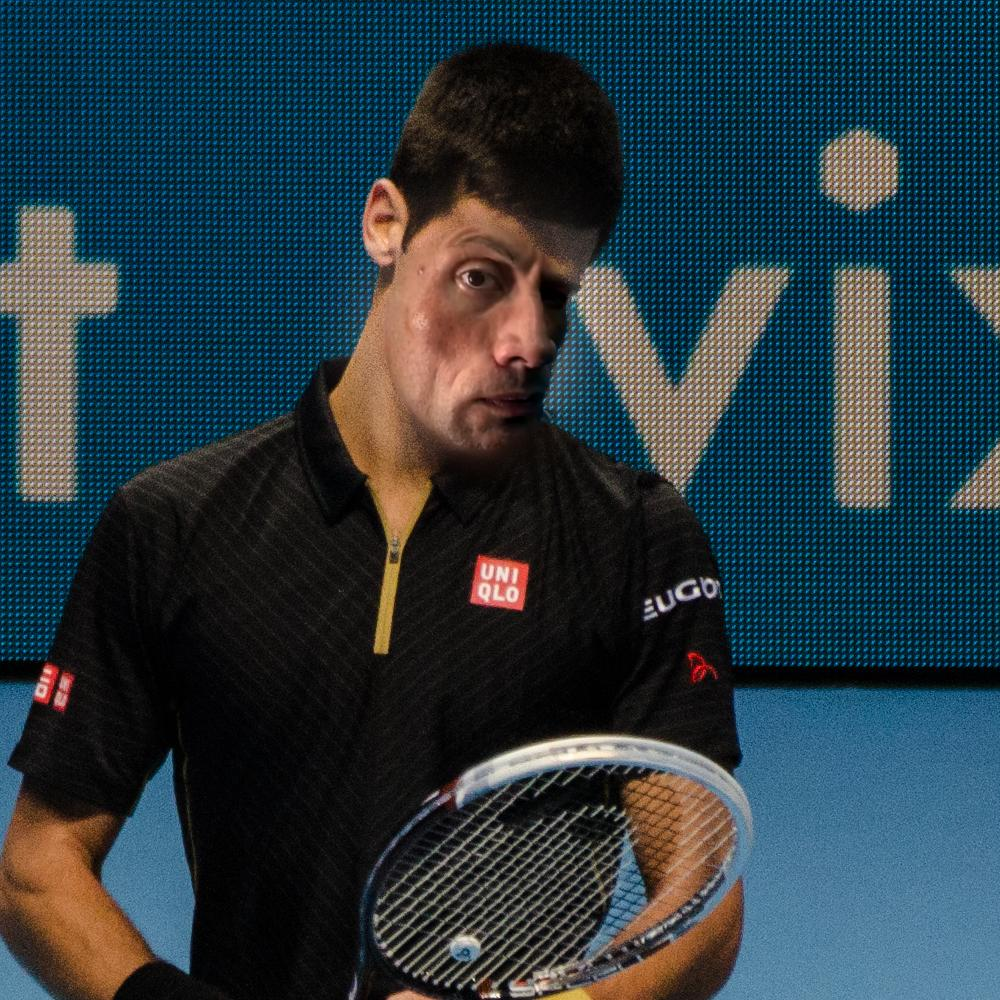
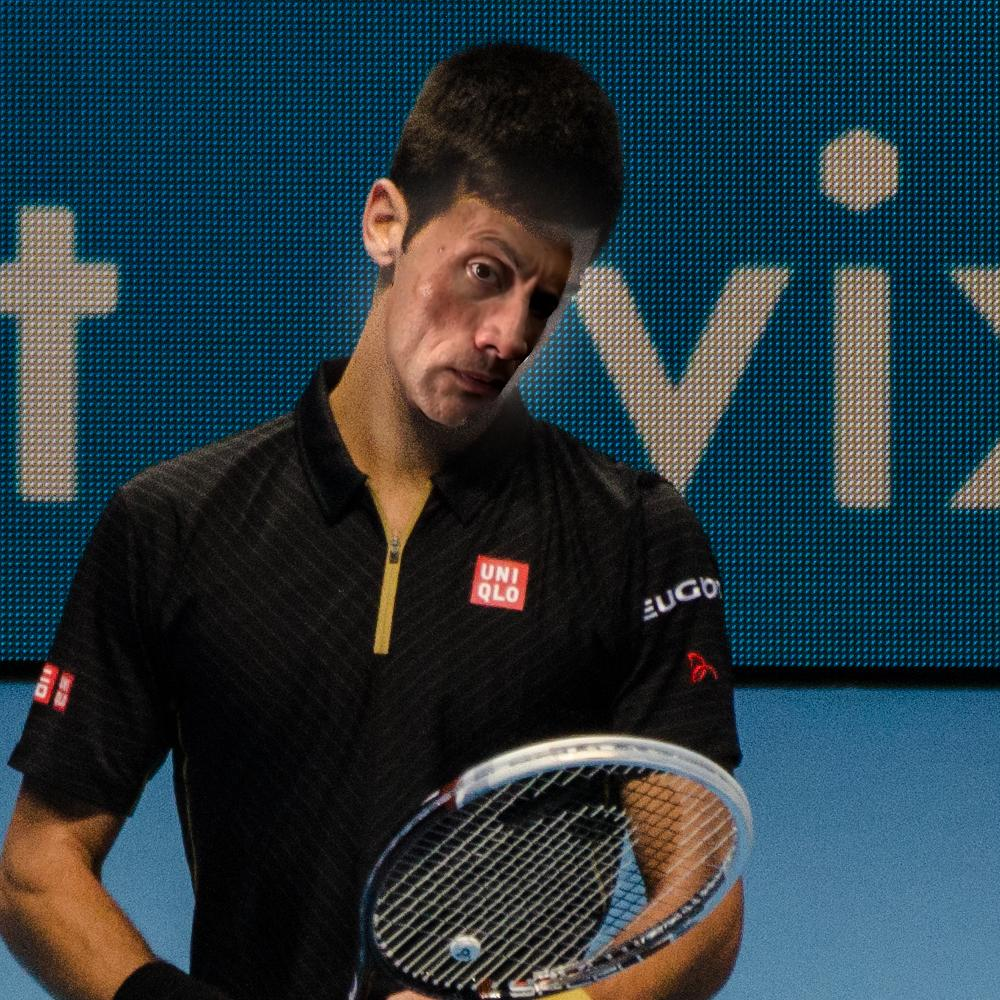
proj2: hand-placed Rock/Djokovic blend with drawn mask
Add a small browser tool for placing the Rock and drawing the mask;
main.py reads its exported JSON.

Changed region(s): [[0.372, 0.186, 0.589, 0.465]]

diff --git a/project2/tools/align_tool.html b/project2/tools/align_tool.html
@@ -1,0 +1,172 @@
+<!doctype html>
+<html lang="en">
+<head>
+<meta charset="utf-8" />
+<title>Rock / Djokovic alignment tool</title>
+<style>
+  body { font-family: -apple-system, Arial, sans-serif; margin: 16px; background: #f4f5f6; color: #1d2630; }
+  .wrap { display: flex; gap: 20px; align-items: flex-start; }
+  canvas { background: #222; border: 1px solid #999; cursor: crosshair; width: min(800px, calc(100vw - 400px), calc(100vh - 40px)); min-width: 360px; }
+  .panel { width: 320px; background: #fff; border: 1px solid #ccd; border-radius: 6px; padding: 14px; }
+  .panel h2 { font-size: 15px; margin: 14px 0 6px; }
+  .panel h2:first-child { margin-top: 0; }
+  label { display: block; font-size: 13px; margin: 8px 0 2px; }
+  input[type=range] { width: 100%; }
+  button { margin: 4px 4px 0 0; padding: 5px 10px; font-size: 13px; }
+  .modes label { display: inline-block; margin-right: 12px; font-size: 14px; }
+  textarea { width: 100%; height: 150px; font-family: ui-monospace, Menlo, monospace; font-size: 11px; }
+  .hint { font-size: 12px; color: #5a6672; line-height: 1.45; }
+  .val { float: right; font-family: ui-monospace, Menlo, monospace; }
+</style>
+</head>
+<body>
+<div class="wrap">
+  <canvas id="c" width="800" height="800"></canvas>
+  <div class="panel">
+    <h2>1. Mode</h2>
+    <div class="modes">
+      <label><input type="radio" name="mode" value="move" checked> Move Rock</label>
+      <label><input type="radio" name="mode" value="mask"> Draw mask</label>
+    </div>
+    <p class="hint">Move Rock: drag to move him. Draw mask: click to add points around the face, drag a point to adjust it.</p>
+
+    <h2>2. Rock placement</h2>
+    <label>Rotation <span class="val" id="angleV"></span></label>
+    <input id="angle" type="range" min="-60" max="60" step="0.5">
+    <label>Scale <span class="val" id="scaleV"></span></label>
+    <input id="scale" type="range" min="0.3" max="1.5" step="0.005">
+    <label>Rock opacity <span class="val" id="opV"></span></label>
+    <input id="op" type="range" min="0" max="1" step="0.05" value="0.4">
+
+    <h2>3. View</h2>
+    <button id="zoomFace">Zoom to face</button><button id="zoomFit">Whole photo</button>
+    <label><input type="checkbox" id="preview"> Preview hard cut (Rock only inside mask)</label>
+
+    <h2>4. Mask</h2>
+    <button id="undo">Undo point</button><button id="clear">Clear mask</button>
+    <p class="hint" id="count"></p>
+
+    <h2>5. Export</h2>
+    <button id="export">Update JSON</button><button id="download">Download JSON</button><button id="copy">Copy</button>
+    <textarea id="out" spellcheck="false"></textarea>
+    <p class="hint">Save it as <code>project2/data/rock_djokovic.json</code> (or just send it to me), then run <code>main.py</code>.</p>
+  </div>
+</div>
+<script>
+// All coordinates are in the 1000 x 1000 Djokovic crop (pixels 500..1500 of the original photo).
+const CROP = 1000;
+const state = { cx: 446.4, cy: 318.5, angle: -5.32, scale: 0.7444, poly: [] };
+const view = { x0: 0, y0: 0, w: CROP };
+
+const canvas = document.getElementById('c');
+const ctx = canvas.getContext('2d');
+const dj = new Image(); dj.src = 'djokovic_crop.jpg';
+const rock = new Image(); rock.src = 'rock.jpg';
+let loaded = 0; [dj, rock].forEach(im => im.onload = () => { if (++loaded === 2) draw(); });
+
+const $ = id => document.getElementById(id);
+const angle = $('angle'), scale = $('scale'), op = $('op');
+angle.value = state.angle; scale.value = state.scale;
+
+function toCrop(e) {
+  const r = canvas.getBoundingClientRect();
+  const px = (e.clientX - r.left) * canvas.width / r.width;
+  const py = (e.clientY - r.top) * canvas.height / r.height;
+  return [view.x0 + px * view.w / canvas.width, view.y0 + py * view.w / canvas.height];
+}
+function toScreen(x, y) {
+  return [(x - view.x0) * canvas.width / view.w, (y - view.y0) * canvas.height / view.w];
+}
+
+function drawRock(alpha) {
+  ctx.save();
+  ctx.globalAlpha = alpha;
+  ctx.translate(state.cx, state.cy);
+  ctx.rotate(state.angle * Math.PI / 180);
+  ctx.scale(state.scale, state.scale);
+  ctx.drawImage(rock, -rock.width / 2, -rock.height / 2);
+  ctx.restore();
+}
+
+function draw() {
+  ctx.setTransform(1, 0, 0, 1, 0, 0);
+  ctx.clearRect(0, 0, canvas.width, canvas.height);
+  const k = canvas.width / view.w;
+  ctx.setTransform(k, 0, 0, k, -view.x0 * k, -view.y0 * k);
+  ctx.drawImage(dj, 0, 0);
+  if ($('preview').checked && state.poly.length > 2) {
+    ctx.save();
+    ctx.beginPath();
+    state.poly.forEach(([x, y], i) => i ? ctx.lineTo(x, y) : ctx.moveTo(x, y));
+    ctx.closePath(); ctx.clip();
+    drawRock(1);
+    ctx.restore();
+  } else {
+    drawRock(parseFloat(op.value));
+  }
+  // mask outline
+  if (state.poly.length) {
+    ctx.lineWidth = 2 / k; ctx.strokeStyle = '#00e5ff'; ctx.fillStyle = 'rgba(0,229,255,0.12)';
+    ctx.beginPath();
+    state.poly.forEach(([x, y], i) => i ? ctx.lineTo(x, y) : ctx.moveTo(x, y));
+    if (state.poly.length > 2) { ctx.closePath(); if (!$('preview').checked) ctx.fill(); }
+    ctx.stroke();
+    ctx.fillStyle = '#ffeb3b';
+    state.poly.forEach(([x, y]) => { ctx.beginPath(); ctx.arc(x, y, 4 / k, 0, 7); ctx.fill(); });
+  }
+  $('angleV').textContent = state.angle.toFixed(1) + '°';
+  $('scaleV').textContent = state.scale.toFixed(3);
+  $('opV').textContent = parseFloat(op.value).toFixed(2);
+  $('count').textContent = state.poly.length + ' mask points' + (state.poly.length < 3 ? ' (need at least 3)' : '');
+  updateJSON();
+}
+
+function mode() { return document.querySelector('input[name=mode]:checked').value; }
+let drag = null;
+canvas.addEventListener('mousedown', e => {
+  const [x, y] = toCrop(e);
+  if (mode() === 'move') { drag = { type: 'rock', dx: x - state.cx, dy: y - state.cy }; return; }
+  const tol = 10 * view.w / canvas.width;
+  const i = state.poly.findIndex(([px, py]) => Math.hypot(px - x, py - y) < tol);
+  if (i >= 0) drag = { type: 'pt', i };
+  else { state.poly.push([x, y]); draw(); }
+});
+window.addEventListener('mousemove', e => {
+  if (!drag) return;
+  const [x, y] = toCrop(e);
+  if (drag.type === 'rock') { state.cx = x - drag.dx; state.cy = y - drag.dy; }
+  else state.poly[drag.i] = [x, y];
+  draw();
+});
+window.addEventListener('mouseup', () => drag = null);
+
+angle.oninput = () => { state.angle = parseFloat(angle.value); draw(); };
+scale.oninput = () => { state.scale = parseFloat(scale.value); draw(); };
+op.oninput = draw; $('preview').onchange = draw;
+$('undo').onclick = () => { state.poly.pop(); draw(); };
+$('clear').onclick = () => { state.poly = []; draw(); };
+$('zoomFace').onclick = () => { view.x0 = 250; view.y0 = 50; view.w = 450; draw(); };
+$('zoomFit').onclick = () => { view.x0 = 0; view.y0 = 0; view.w = CROP; draw(); };
+
+function payload() {
+  return {
+    note: 'Coordinates are in the 1000x1000 crop starting at (500, 500) of djokovic_racket.jpg',
+    crop_origin: [500, 500],
+    rock_center: [+state.cx.toFixed(2), +state.cy.toFixed(2)],
+    angle_degrees: +state.angle.toFixed(2),
+    scale: +state.scale.toFixed(4),
+    mask_polygon: state.poly.map(([x, y]) => [+x.toFixed(1), +y.toFixed(1)])
+  };
+}
+function updateJSON() { $('out').value = JSON.stringify(payload(), null, 1); }
+$('export').onclick = updateJSON;
+$('copy').onclick = () => { $('out').select(); document.execCommand('copy'); };
+$('download').onclick = () => {
+  const blob = new Blob([JSON.stringify(payload(), null, 1)], { type: 'application/json' });
+  const a = document.createElement('a');
+  a.href = URL.createObjectURL(blob); a.download = 'rock_djokovic.json'; a.click();
+};
+$('zoomFace').click();
+</script>
+</body>
+</html>

diff --git a/docs/proj2/index.html b/docs/proj2/index.html
@@ -339,8 +339,8 @@ padded = <span class="tok-fn">np.pad</span>(image, ((pad_top, pad_bottom), (pad_
       </div>
 
       <h3>Djokovic gives the side-eye</h3>
-      <p class="intro">This is a photo of Djokovic checking his racket at the 2014 ATP Finals, blended with the famous meme of the Rock raising one eyebrow. The mask isn't a line. It's an ellipse drawn around the Rock's whole face.</p>
-      <p class="intro">Lining them up was the tricky part. Djokovic is looking down at his racket and the Rock is looking up and to the side. My first try stretched the Rock's face to hit three points exactly (both eyes and the mouth), which squashed it and looked awful. This version only rotates, scales, and shifts his face, picking the fit that gets closest to those three points, so the Rock's face keeps its real shape. The mask covers his whole face from forehead to chin, and Djokovic keeps his hair and ears.</p>
+      <p class="intro">This is a photo of Djokovic checking his racket at the 2014 ATP Finals, blended with the famous meme of the Rock raising one eyebrow. The mask isn't a line. It's a shape I drew by hand around the Rock's face.</p>
+      <p class="intro">Lining them up was the tricky part. Djokovic is looking down at his racket and the Rock is looking up and to the side. My automatic attempts, which fit the faces using the eyes and mouth, either squashed the Rock's face or left it at the wrong angle. In the end I wrote a small browser tool where I could drag the Rock over Djokovic, rotate him (14.5°) and scale him (0.63×) until the eyes, nose, and mouth lined up, and then click out the mask around his face. The tool just saves those numbers and the mask points. The blending itself is the same Laplacian stack code as everything else.</p>
       <div class="gallery three">
         <figure><img src="assets/rock_djokovic_image2.jpg" alt="Djokovic checking his racket" /><figcaption><b>Djokovic</b></figcaption></figure>
         <figure><img src="assets/rock_djokovic_rock.jpg" alt="The Rock raising an eyebrow" /><figcaption><b>The Rock</b><span>Warped onto Djokovic's face before blending</span></figcaption></figure>

diff --git a/project2/main.py b/project2/main.py
@@ -1,5 +1,6 @@
 # CS180 Project 2
 
+import json
 from pathlib import Path
 from time import perf_counter
 
@@ -627,29 +628,29 @@ save_blend_results(
 )
 
 # Irregular mask: the Rock's side-eye on Djokovic checking his racket.
+# The placement and mask polygon were set by hand in tools/align_tool.html
+# and exported to data/rock_djokovic.json. Coordinates are in a 1000 x 1000
+# crop of the Djokovic photo.
 djokovic = load_small_image(data_dir / 'downloaded' / 'djokovic_racket.jpg', max_size=3264)
 rock = load_small_image(data_dir / 'downloaded' / 'rock_side_eye.jpg', max_size=463)
-# Fit rotation, scale, and shift (no stretching) to three landmarks: both
-# eyes and the mouth. This keeps the Rock's face proportions intact.
-rock_points = np.float32([[275, 174], [376, 205], [307, 347]])
-djokovic_points = np.float32([[975, 777], [1052, 793], [965, 877]])
-rock_transform, _ = cv2.estimateAffinePartial2D(rock_points, djokovic_points)
-height, width = djokovic.shape[:2]
+with open(data_dir / 'rock_djokovic.json') as f:
+    placement = json.load(f)
+left, top = placement['crop_origin']
+djokovic = djokovic[top:top + 1000, left:left + 1000]
+
+rock_height, rock_width = rock.shape[:2]
+rock_transform = cv2.getRotationMatrix2D(
+    (rock_width / 2, rock_height / 2), -placement['angle_degrees'],
+    placement['scale']
+)
+rock_transform[0, 2] += placement['rock_center'][0] - rock_width / 2
+rock_transform[1, 2] += placement['rock_center'][1] - rock_height / 2
 rock_aligned = np.clip(cv2.warpAffine(
-    rock, rock_transform, (width, height), borderMode=cv2.BORDER_REPLICATE), 0, 1)
+    rock, rock_transform, (1000, 1000), borderMode=cv2.BORDER_REPLICATE), 0, 1)
 
-# Mask: an ellipse around the Rock's whole face, forehead to chin, minus the
-# white sticker border.
-rock_mask = np.zeros(rock.shape[:2], np.float32)
-cv2.ellipse(rock_mask, (275, 255), (135, 155), 0, 0, 360, 1, -1)
-rock_mask *= rock.min(axis=2) < 0.85
-rock_mask = cv2.erode(rock_mask, np.ones((9, 9), np.uint8))
-rock_mask = cv2.warpAffine(rock_mask, rock_transform, (width, height))
+rock_mask = np.zeros((1000, 1000), np.float32)
+cv2.fillPoly(rock_mask, [np.int32(np.round(placement['mask_polygon']))], 1)
 
-top, bottom, left, right = 500, 1500, 500, 1500
-rock_aligned = rock_aligned[top:bottom, left:right]
-djokovic = djokovic[top:bottom, left:right]
-rock_mask = rock_mask[top:bottom, left:right]
 rock_djokovic = save_blend_results(rock_aligned, djokovic, rock_mask, 'rock_djokovic')
 hard_cut = rock_mask[:, :, np.newaxis] * rock_aligned
 hard_cut += (1 - rock_mask[:, :, np.newaxis]) * djokovic
